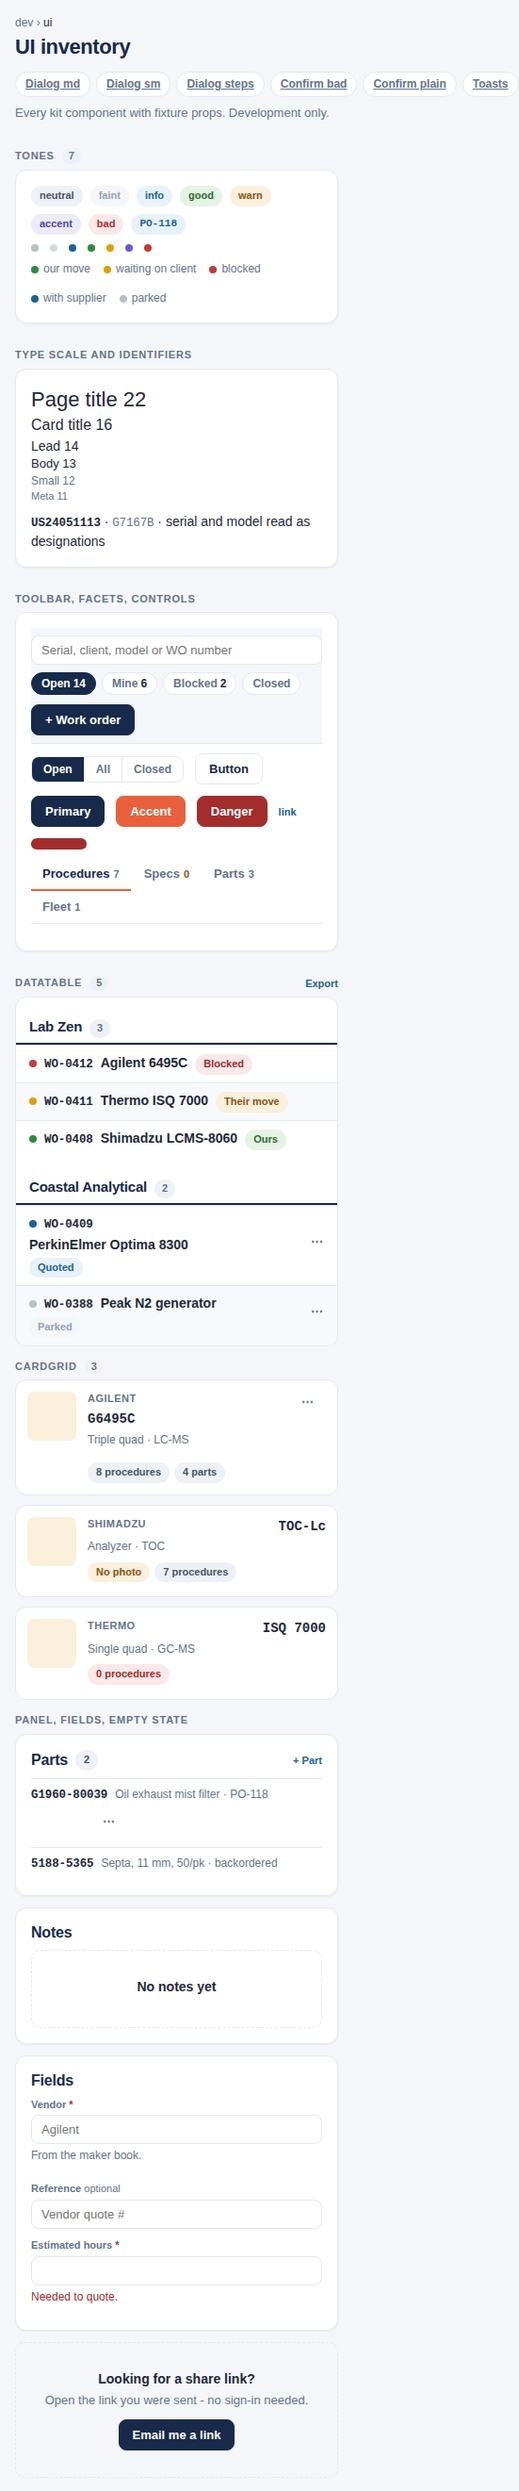
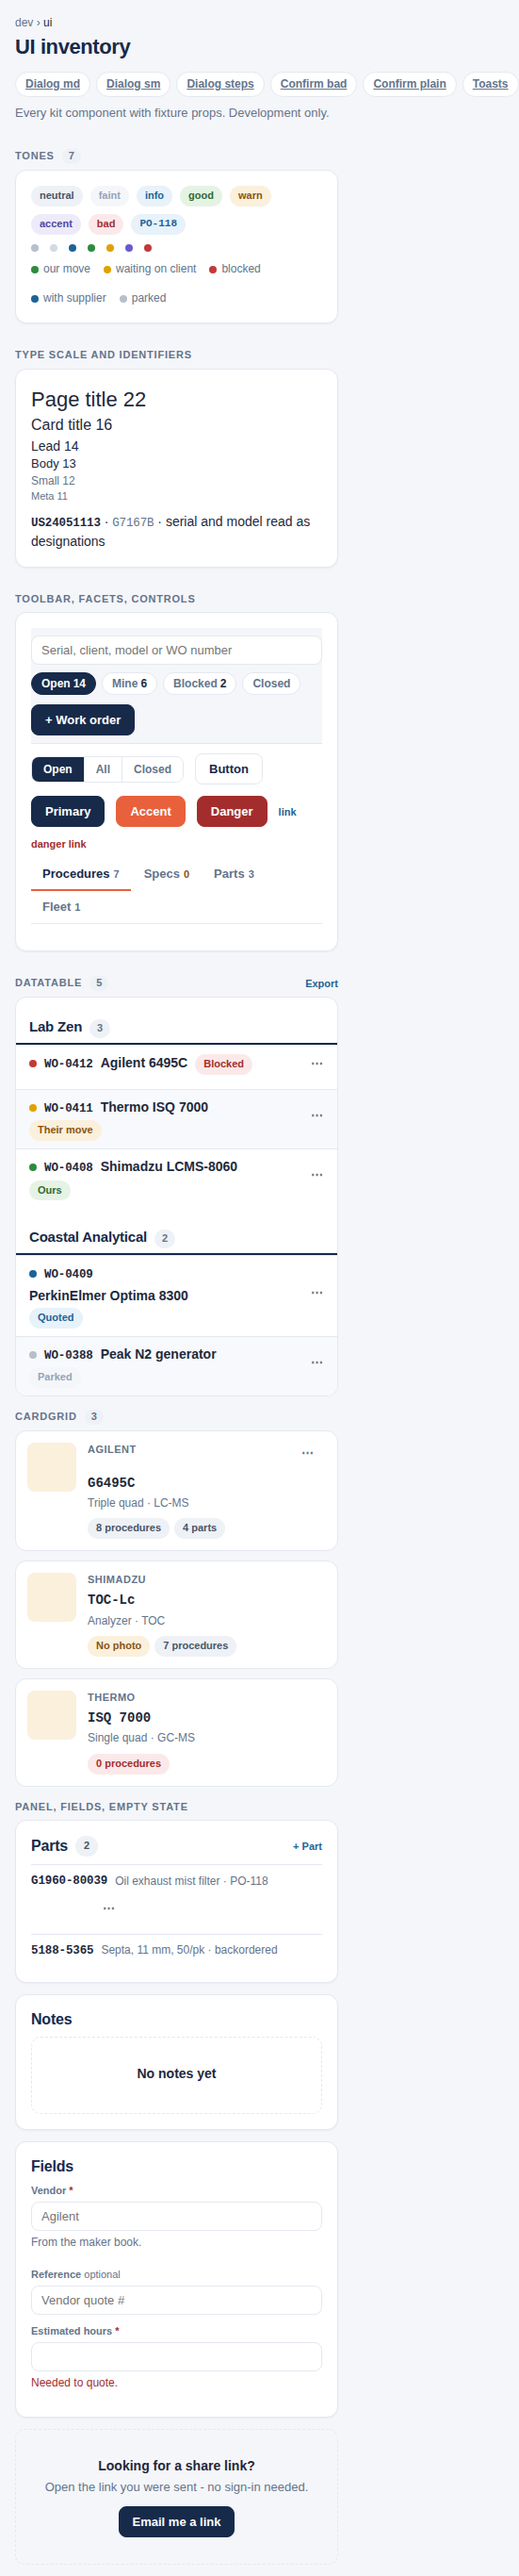
Gallery findings: fixed card anatomy, ever-present actions cell, quiet danger links
EntityCard cells are placed explicitly - auto-placement let a kebab-less
card pull its title up beside the eyebrow - and the kebab corner is
always rendered. DataTable's actions cell was already on every row
(the fixture data hid it); now the fixture shows it and a test pins it.
.btn.danger scoped :not(.link) so 'btn link danger' stays a text link
instead of a filled red bar. Inventory screenshots refreshed.

Claude-Session: https://claude.ai/code/session_01R1DnuNnwpQaMKF5sWKf9Mk

diff --git a/src/app/globals.css b/src/app/globals.css
@@ -678,9 +678,12 @@ label { display: block; font-size: 11px; font-weight: 700; color: var(--mut); ma
 /* A destructive entry says so in red, in a row or in a menu. */
 .btn.link.danger { color: var(--t-bad-fg); }
 .menu-panel a.danger, .menu-panel button.danger { color: var(--t-bad-fg); }
-/* The button that does the destructive thing, in a ConfirmDialog's footer. */
-.btn.danger { background: var(--t-bad-fg); border-color: var(--t-bad-fg); color: #fff; }
-.btn.danger:hover { background: #8B2626; border-color: #8B2626; }
+/* The button that does the destructive thing, in a ConfirmDialog's footer.
+   :not(.link), or this filled style swallows the quiet red text links -
+   `btn link danger` rendered as a solid red bar until the /dev/ui fixture
+   caught it. */
+.btn.danger:not(.link) { background: var(--t-bad-fg); border-color: var(--t-bad-fg); color: #fff; }
+.btn.danger:not(.link):hover { background: #8B2626; border-color: #8B2626; }
 
 /* ── Dialog ─────────────────────────────────────────────────────────────────
    One modal for the whole app, built on the .sheet responsive rule (bottom
@@ -767,23 +770,32 @@ label { display: block; font-size: 11px; font-weight: 700; color: var(--mut); ma
    in a grid that goes 1 to 4 columns by width. */
 .cardgrid { display: grid; grid-template-columns: repeat(auto-fill, minmax(250px, 1fr)); gap: 10px; }
 @media (max-width: 640px) { .cardgrid { grid-template-columns: 1fr; } }
+/* Every cell is placed EXPLICITLY. Auto-placement let a card without a
+   kebab pull its title up beside the eyebrow, so the same grid read two
+   ways in one row of cards. The kebab cell is always rendered (empty when
+   there are no actions) and holds its 26px, so the anatomy never varies. */
 .ecard {
   background: var(--card); border: 1px solid var(--line); border-radius: 12px;
   padding: 12px; display: grid; grid-template-columns: 52px minmax(0, 1fr) auto;
-  gap: 3px 12px; align-items: start;
+  grid-template-rows: auto auto auto auto; gap: 3px 12px; align-items: start;
 }
 .ecard-img {
-  width: 52px; height: 52px; border-radius: 8px; overflow: hidden; grid-row: 1 / 5;
+  width: 52px; height: 52px; border-radius: 8px; overflow: hidden;
+  grid-column: 1; grid-row: 1 / 5;
   background: linear-gradient(135deg, #E6EBF3, #D3DAE6);
   display: flex; align-items: center; justify-content: center;
 }
 .ecard-img img { width: 100%; height: 100%; object-fit: cover; }
 .ecard-img.missing { background: var(--t-warn-bg); }
-.ecard-title { font-weight: 700; font-size: 14px; min-width: 0; overflow: hidden; text-overflow: ellipsis; white-space: nowrap; }
+.ecard-eyebrow { grid-column: 2; grid-row: 1; }
+.ecard-title {
+  grid-column: 2; grid-row: 2;
+  font-weight: 700; font-size: 14px; min-width: 0; overflow: hidden; text-overflow: ellipsis; white-space: nowrap;
+}
 .ecard-title a { color: inherit; text-decoration: none; }
-.ecard-meta { font-size: 12px; color: var(--mut); min-width: 0; }
-.ecard-kebab { grid-column: 3; grid-row: 1 / 5; }
-.ecard-pills { grid-column: 2 / 4; display: flex; gap: 5px; flex-wrap: wrap; margin-top: 4px; }
+.ecard-meta { grid-column: 2; grid-row: 3; font-size: 12px; color: var(--mut); min-width: 0; }
+.ecard-kebab { grid-column: 3; grid-row: 1; min-width: 26px; justify-self: end; }
+.ecard-pills { grid-column: 2 / 4; grid-row: 4; display: flex; gap: 5px; flex-wrap: wrap; margin-top: 4px; }
 
 /* ── Toasts ─────────────────────────────────────────────────────────────────
    The confirmation an action owes. Bottom-right on a desktop, bottom-centre

diff --git a/src/components/dev/DevUiGallery.tsx b/src/components/dev/DevUiGallery.tsx
@@ -163,9 +163,12 @@ export default function DevUiGallery() {
             { key: "updated", label: "Updated", width: "90px", hideMobile: true },
           ]}
           rows={[
-            { key: 1, group: "Lab Zen", href: "#", cells: { dot: <Dot tone="bad" />, wo: <Id>WO-0412</Id>, system: <b>Agilent 6495C</b>, stage: <Pill tone="bad">Blocked</Pill>, updated: "2 h" } },
-            { key: 2, group: "Lab Zen", href: "#", cells: { dot: <Dot tone="warn" />, wo: <Id>WO-0411</Id>, system: <b>Thermo ISQ 7000</b>, stage: <Pill tone="warn">Their move</Pill>, updated: "1 d" } },
-            { key: 3, group: "Lab Zen", href: "#", cells: { dot: <Dot tone="good" />, wo: <Id>WO-0408</Id>, system: <b>Shimadzu LCMS-8060</b>, stage: <Pill tone="good">Ours</Pill>, updated: "3 h" } },
+            { key: 1, group: "Lab Zen", cells: { dot: <Dot tone="bad" />, wo: <Id>WO-0412</Id>, system: <b>Agilent 6495C</b>, stage: <Pill tone="bad">Blocked</Pill>, updated: "2 h" },
+              actions: [{ label: "Open", onClick: () => {} }] },
+            { key: 2, group: "Lab Zen", cells: { dot: <Dot tone="warn" />, wo: <Id>WO-0411</Id>, system: <b>Thermo ISQ 7000</b>, stage: <Pill tone="warn">Their move</Pill>, updated: "1 d" },
+              actions: [{ label: "Open", onClick: () => {} }] },
+            { key: 3, group: "Lab Zen", cells: { dot: <Dot tone="good" />, wo: <Id>WO-0408</Id>, system: <b>Shimadzu LCMS-8060</b>, stage: <Pill tone="good">Ours</Pill>, updated: "3 h" },
+              actions: [{ label: "Open", onClick: () => {} }] },
             { key: 4, group: "Coastal Analytical", cells: { dot: <Dot tone="info" />, wo: <Id>WO-0409</Id>, system: <b>PerkinElmer Optima 8300</b>, stage: <Pill tone="info">Quoted</Pill>, updated: "2 d" },
               actions: [{ label: "Open", onClick: () => {} }, { label: "Close out", onClick: () => {} }, { label: "Cancel", onClick: () => {}, tone: "bad" }] },
             { key: 5, group: "Coastal Analytical", cells: { dot: <Dot tone="neutral" />, wo: <Id>WO-0388</Id>, system: <b>Peak N2 generator</b>, stage: <Pill tone="faint">Parked</Pill>, updated: "9 d" },

diff --git a/tests/cardgrid.test.tsx b/tests/cardgrid.test.tsx
@@ -1,0 +1,35 @@
+// @vitest-environment jsdom
+import { cleanup, render } from "@testing-library/react";
+import { afterEach, describe, expect, it } from "vitest";
+import { EntityCard } from "@/components/ui/CardGrid";
+import DataTable from "@/components/ui/DataTable";
+
+afterEach(cleanup);
+
+describe("EntityCard anatomy", () => {
+  it("keeps the kebab cell even when the card has no kebab", () => {
+    const { container } = render(<EntityCard eyebrow="Agilent" title="G6495C" mono meta="LC-MS" />);
+    expect(container.querySelector(".ecard-kebab")).toBeTruthy();
+    expect(container.querySelector(".ecard-eyebrow")).toBeTruthy();
+  });
+});
+
+describe("DataTable actions column", () => {
+  it("renders the actions cell on every row, action list empty or not", () => {
+    const { container } = render(
+      <DataTable
+        cols={[{ key: "a", label: "A" }]}
+        rows={[
+          { key: 1, cells: { a: "with" }, actions: [{ label: "Open", onClick: () => {} }] },
+          { key: 2, cells: { a: "without" } },
+          { key: 3, cells: { a: "empty" }, actions: [] },
+        ]} />,
+    );
+    const rows = Array.from(container.querySelectorAll(".dt-row"));
+    expect(rows).toHaveLength(3);
+    for (const r of rows) expect(r.querySelector(".dt-acts")).toBeTruthy();
+    // And the column track is declared once for all of them.
+    const dt = container.querySelector<HTMLElement>(".dt.reg")!;
+    expect(dt.style.getPropertyValue("--reg-cols").split(" ").length).toBeGreaterThan(1);
+  });
+});

diff --git a/src/components/ui/CardGrid.tsx b/src/components/ui/CardGrid.tsx
@@ -30,12 +30,14 @@ export function EntityCard({ image, imageAlt = "", eyebrow, title, mono, href, m
         {/* eslint-disable-next-line @next/next/no-img-element */}
         {image && <img src={image} alt={imageAlt} loading="lazy" />}
       </span>
-      {eyebrow != null && <span className="eyebrow">{eyebrow}</span>}
+      {eyebrow != null && <span className="eyebrow ecard-eyebrow">{eyebrow}</span>}
       <span className={`ecard-title${mono ? " mono" : ""}`}>
         {href ? <Link href={href}>{title}</Link> : title}
       </span>
       {meta != null && <span className="ecard-meta">{meta}</span>}
-      {kebab != null && <span className="ecard-kebab">{kebab}</span>}
+      {/* Always rendered: the corner belongs to the kebab whether or not
+          this card has one, so titles line up across the grid. */}
+      <span className="ecard-kebab">{kebab}</span>
       {pills != null && <span className="ecard-pills">{pills}</span>}
     </div>
   );
